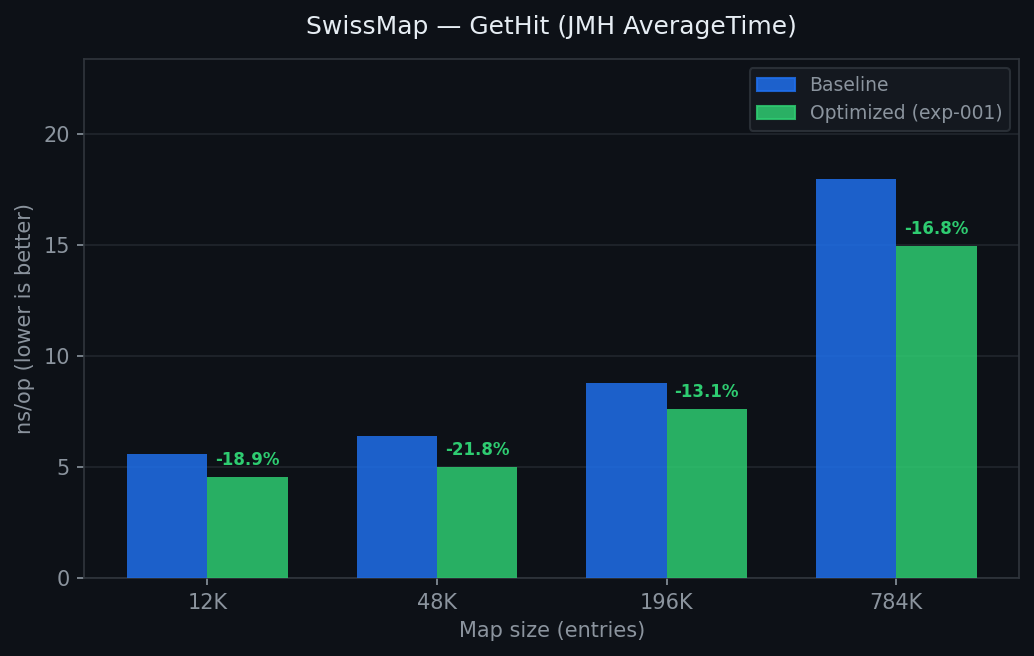
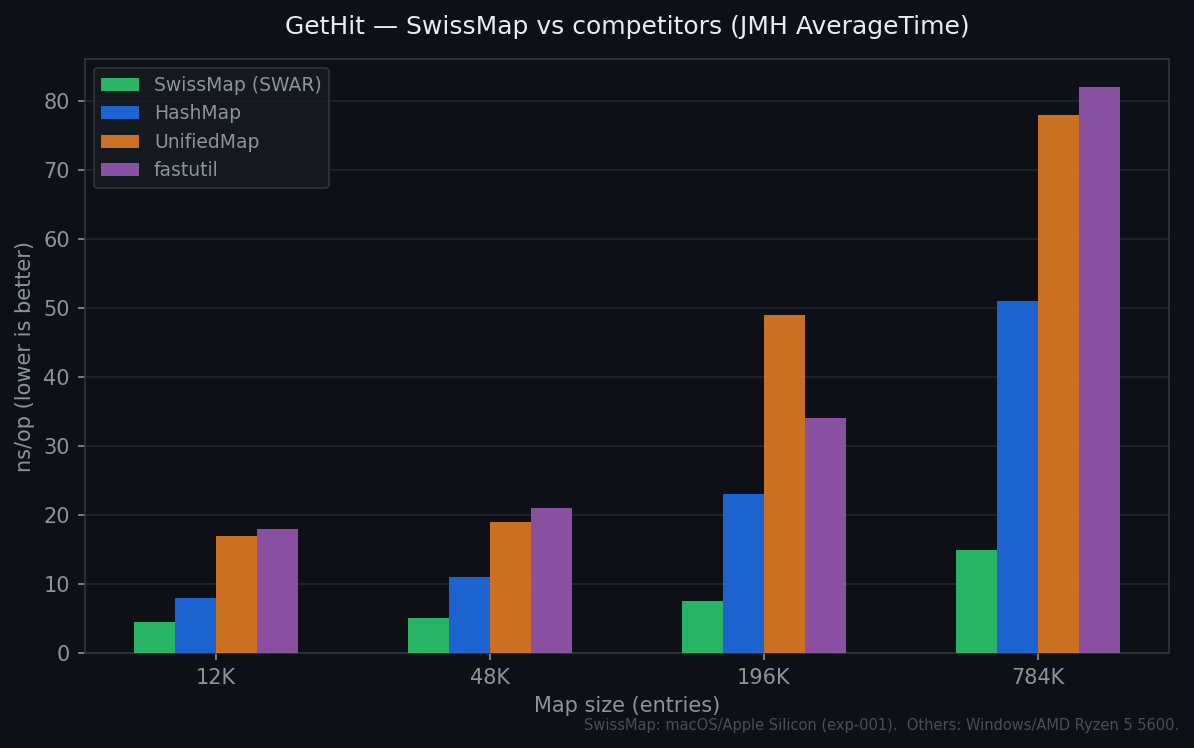
docs: update benchmark charts with competitor comparison (exp-001 SwissMap)

diff --git a/README.md b/README.md
@@ -102,8 +102,9 @@ dependencies {
 </table>
 
 ## Benchmark (JMH, CPU ns/op)
-- Benchmarks run with Eclipse Temurin JDK 21 (macOS, Apple M-series); `AverageTime` mode, 3 forks.
-- Charts show `SwissMap` **baseline vs. exp-001 optimized** (lower is better). Improvements range from **-13% to -33%** across all workloads and sizes.
+- `SwissMap` numbers: Eclipse Temurin JDK 21, macOS/Apple Silicon, `AverageTime` mode (exp-001 optimized).
+- `HashMap`, `UnifiedMap`, `fastutil` numbers: Eclipse Temurin JDK 21.0.9, Windows 11, AMD Ryzen 5 5600.
+- Hardware differs across implementations — use as directional reference, not an apples-to-apples comparison.
 
 | put hit                                     | put miss                                      |
 |---------------------------------------------|-----------------------------------------------|
